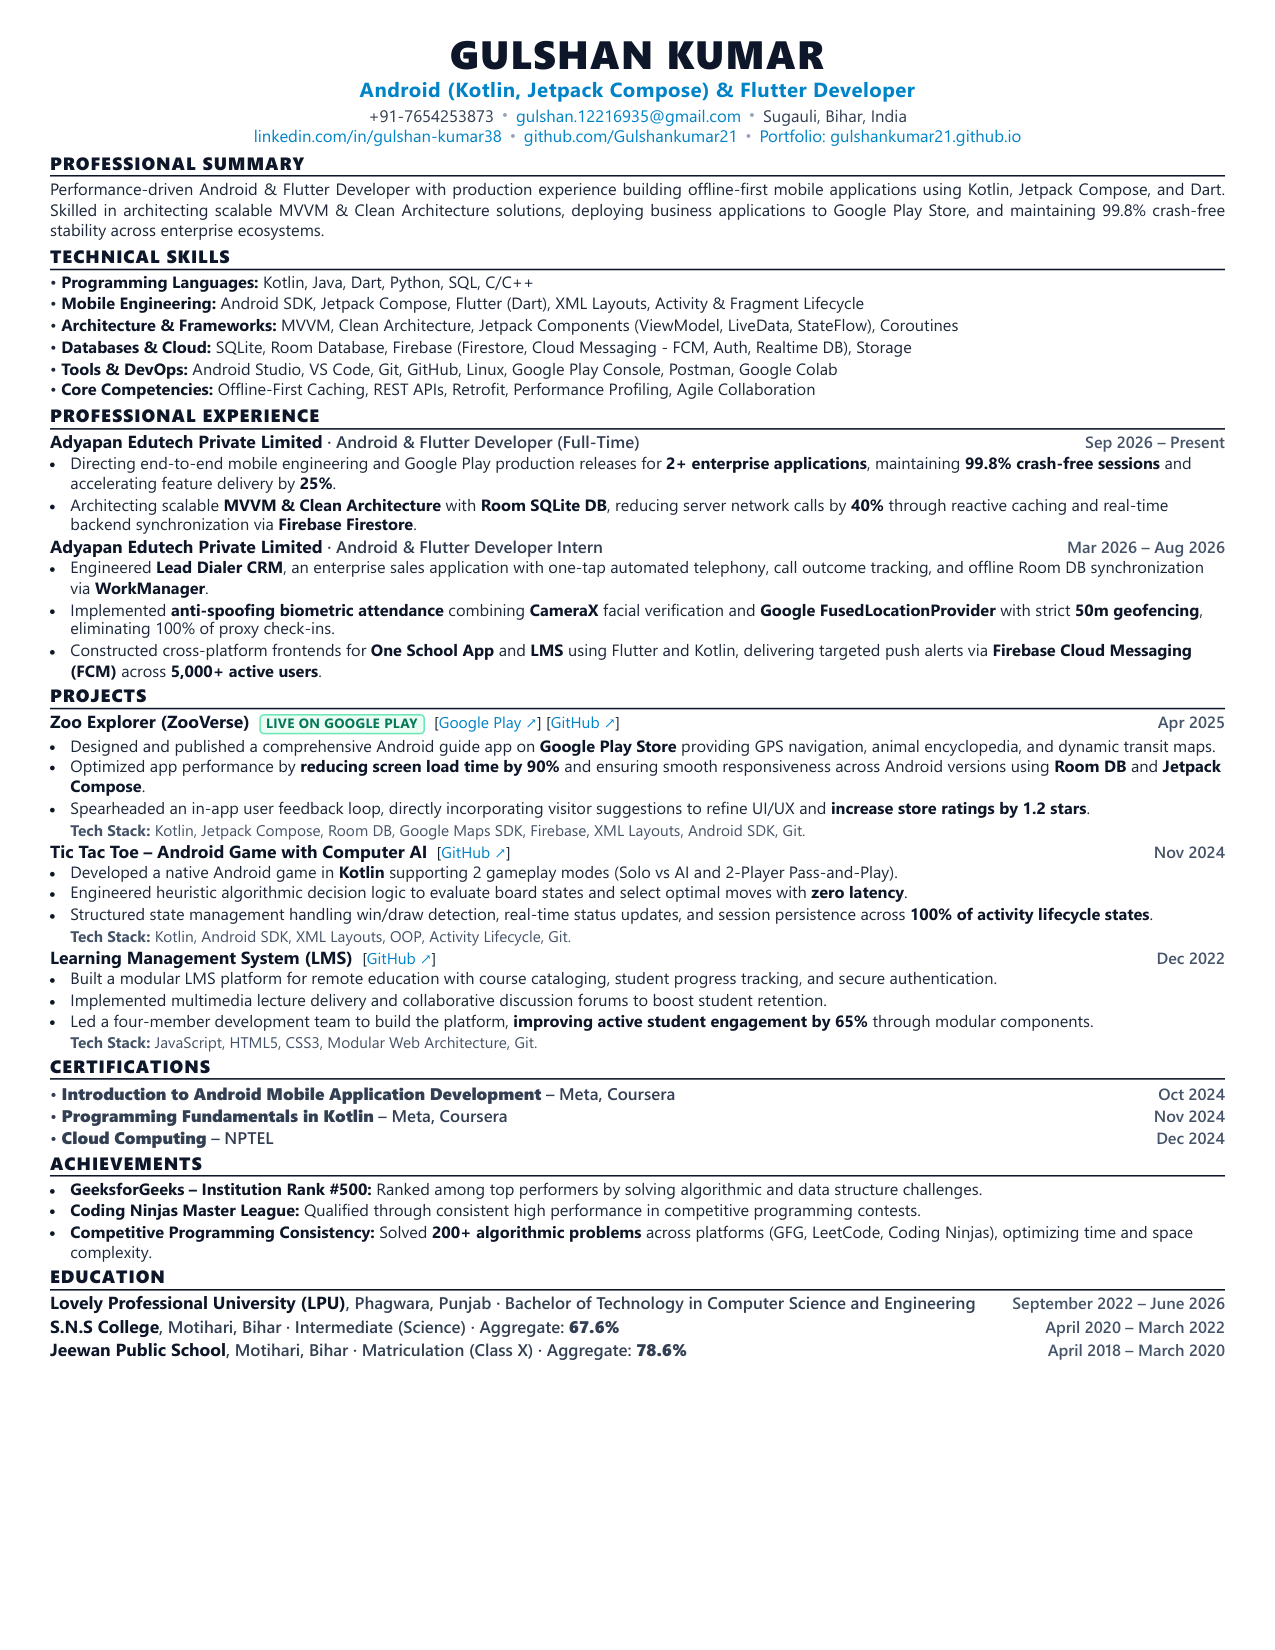
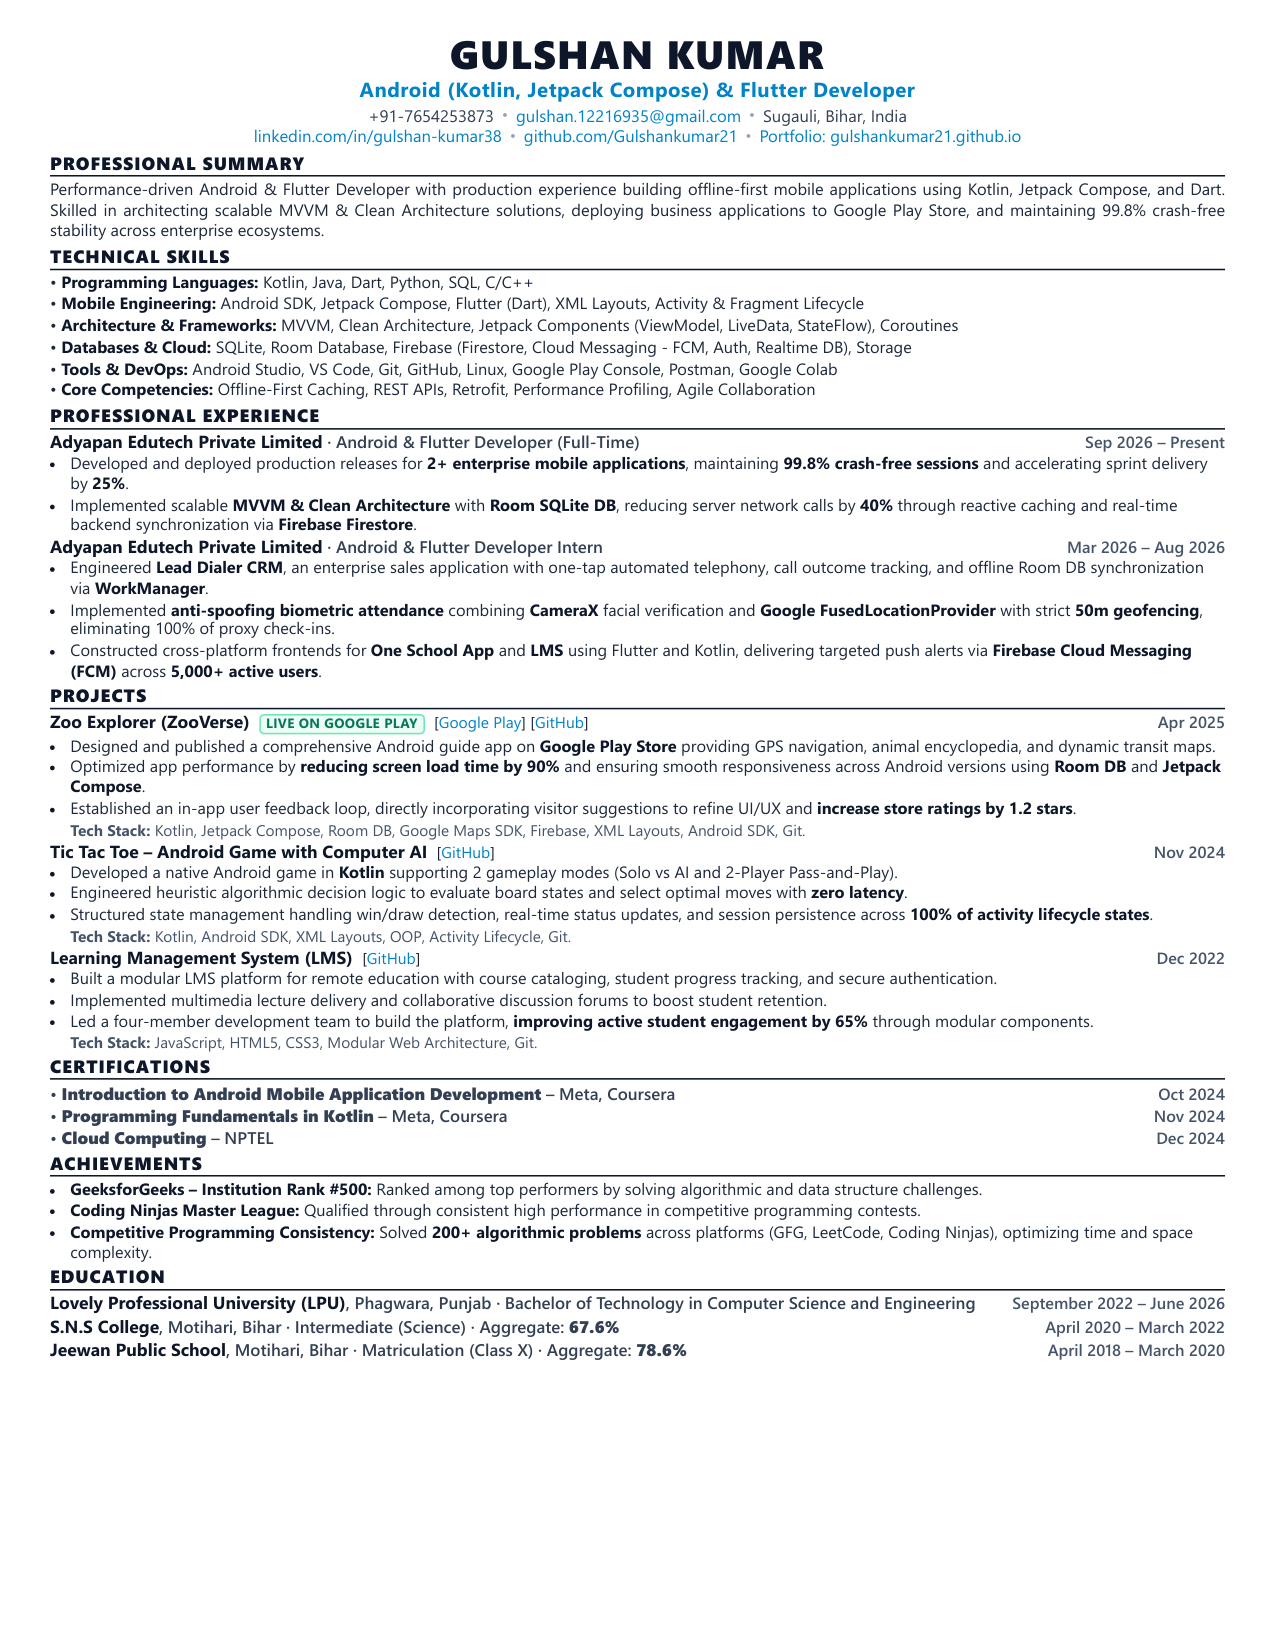
Refine action verbs, remove unicode arrows, and output Gulshan_Kumar_Resume.pdf for Enhancv

Changed region(s): [[0.0612, 0.2782, 0.9482, 0.3091], [0.1529, 0.4327, 0.8565, 0.4945], [0.0612, 0.4636, 0.1224, 0.4945]]

diff --git a/resume.html b/resume.html
@@ -250,8 +250,8 @@
       <span class="item-date">Sep 2026 – Present</span>
     </div>
     <ul>
-      <li>Directing end-to-end mobile engineering and Google Play production releases for <strong>2+ enterprise applications</strong>, maintaining <strong>99.8% crash-free sessions</strong> and accelerating feature delivery by <strong>25%</strong>.</li>
-      <li>Architecting scalable <strong>MVVM &amp; Clean Architecture</strong> with <strong>Room SQLite DB</strong>, reducing server network calls by <strong>40%</strong> through reactive caching and real-time backend synchronization via <strong>Firebase Firestore</strong>.</li>
+      <li>Developed and deployed production releases for <strong>2+ enterprise mobile applications</strong>, maintaining <strong>99.8% crash-free sessions</strong> and accelerating sprint delivery by <strong>25%</strong>.</li>
+      <li>Implemented scalable <strong>MVVM &amp; Clean Architecture</strong> with <strong>Room SQLite DB</strong>, reducing server network calls by <strong>40%</strong> through reactive caching and real-time backend synchronization via <strong>Firebase Firestore</strong>.</li>
     </ul>
 
     <!-- Adyapan Edutech - Internship -->
@@ -279,8 +279,8 @@
         <span class="item-primary">Zoo Explorer (ZooVerse)</span>
         <span class="play-badge">LIVE ON GOOGLE PLAY</span>
         <span style="font-size: 7.5pt; margin-left: 3px;">
-          [<a href="https://play.google.com/store/apps/details?id=com.wildlife.zooexplorer" target="_blank">Google Play ↗</a>] 
-          [<a href="https://github.com/GulshanKumar21" target="_blank">GitHub ↗</a>]
+          [<a href="https://play.google.com/store/apps/details?id=com.wildlife.zooexplorer" target="_blank">Google Play</a>] 
+          [<a href="https://github.com/GulshanKumar21" target="_blank">GitHub</a>]
         </span>
       </div>
       <span class="item-date">Apr 2025</span>
@@ -288,7 +288,7 @@
     <ul>
       <li>Designed and published a comprehensive Android guide app on <strong>Google Play Store</strong> providing GPS navigation, animal encyclopedia, and dynamic transit maps.</li>
       <li>Optimized app performance by <strong>reducing screen load time by 90%</strong> and ensuring smooth responsiveness across Android versions using <strong>Room DB</strong> and <strong>Jetpack Compose</strong>.</li>
-      <li>Spearheaded an in-app user feedback loop, directly incorporating visitor suggestions to refine UI/UX and <strong>increase store ratings by 1.2 stars</strong>.</li>
+      <li>Established an in-app user feedback loop, directly incorporating visitor suggestions to refine UI/UX and <strong>increase store ratings by 1.2 stars</strong>.</li>
     </ul>
     <div class="tech-stack"><strong>Tech Stack:</strong> Kotlin, Jetpack Compose, Room DB, Google Maps SDK, Firebase, XML Layouts, Android SDK, Git.</div>
 
@@ -296,7 +296,7 @@
     <div class="item-row">
       <div>
         <span class="item-primary">Tic Tac Toe – Android Game with Computer AI</span>
-        <span style="font-size: 7.5pt; margin-left: 3px;">[<a href="https://github.com/GulshanKumar21" target="_blank">GitHub ↗</a>]</span>
+        <span style="font-size: 7.5pt; margin-left: 3px;">[<a href="https://github.com/GulshanKumar21" target="_blank">GitHub</a>]</span>
       </div>
       <span class="item-date">Nov 2024</span>
     </div>
@@ -311,7 +311,7 @@
     <div class="item-row">
       <div>
         <span class="item-primary">Learning Management System (LMS)</span>
-        <span style="font-size: 7.5pt; margin-left: 3px;">[<a href="https://github.com/GulshanKumar21" target="_blank">GitHub ↗</a>]</span>
+        <span style="font-size: 7.5pt; margin-left: 3px;">[<a href="https://github.com/GulshanKumar21" target="_blank">GitHub</a>]</span>
       </div>
       <span class="item-date">Dec 2022</span>
     </div>
